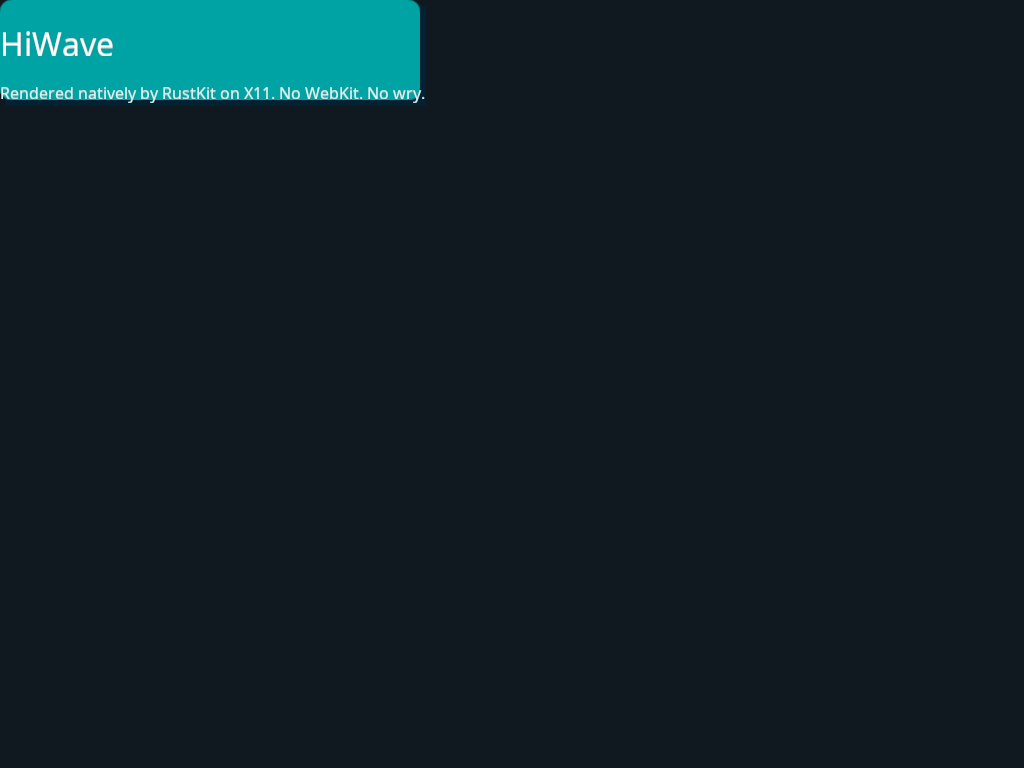
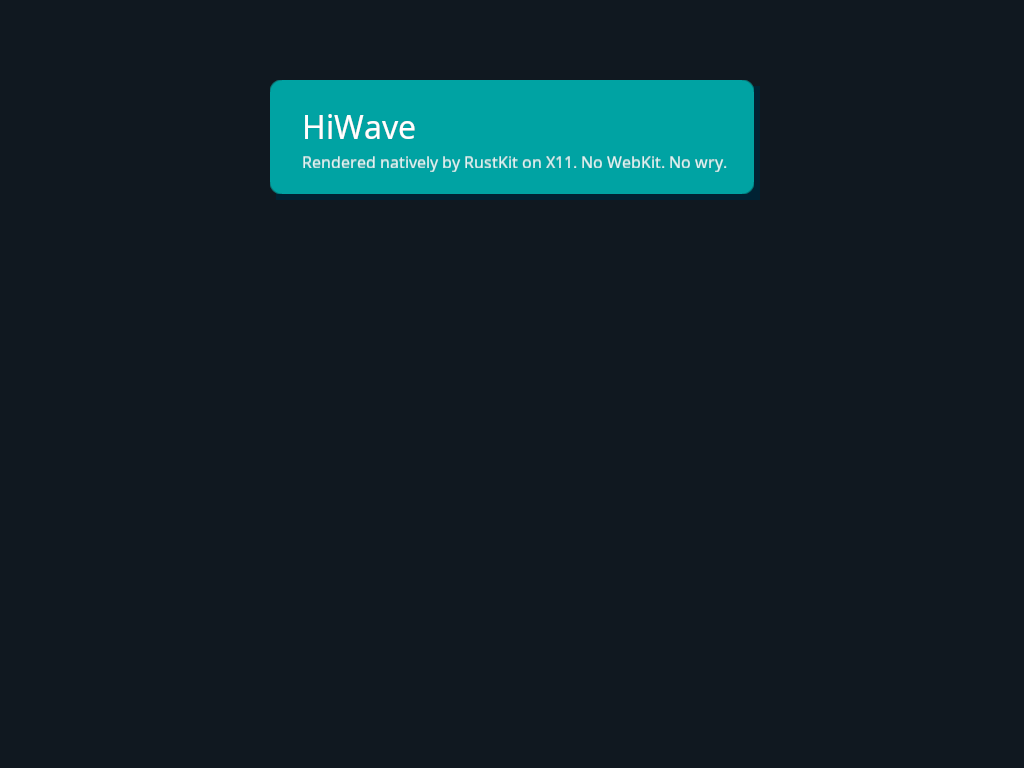
fix(css,layout): `margin: 0 auto` centers — two independent defects, one symptom
The card sat pinned to the top-left. TWO bugs had to be fixed to move it, and
each was invisible alone — fixing either changed nothing on screen, which is
exactly why this survived.

1. PARSER: the `margin`/`padding` shorthand called parse_length() on the WHOLE
   value string, so every multi-value form failed and was DROPPED ENTIRELY.
   `margin: 80px auto` set nothing — not the auto, not even the 80px. Measured:
     margin: 80px auto  -> left=Zero right=Zero top=Zero
     margin-left: auto  -> left=Auto            (longhand always worked)
   Now parse_box_shorthand() expands 1/2/3/4 values per CSS box rules, and
   drops the whole declaration if ANY token fails — half-applying a shorthand
   is worse than ignoring it.

2. LAYOUT: css2 10.3.3 was unimplemented. With a definite width, auto margins
   absorb the leftover: both auto splits it (centering), one auto takes it all.
   length_to_px maps Auto to 0 — correct for the width computation, but it
   erases the auto-ness, so the rule re-checks the style.

Symptom order matters for the next person: I fixed layout first and the
screenshot did not move, because the parser had already thrown the declaration
away. A layout rule that cannot receive its input is untestable through the
page; only the parser probe distinguished them.

RECEIPT: screenshot regenerated — card centered, padded, correct colors, real
type. Numerically verified in the previous commit and unchanged here.
[…]

Changed region(s): [[0.0, 0.0, 0.75, 0.25]]

diff --git a/crates/rustkit-engine/src/lib.rs b/crates/rustkit-engine/src/lib.rs
@@ -3395,26 +3395,46 @@ fn apply_inline_style_decls(style: &mut ComputedStyle, style_attr: &str) {
                     }
                 }
                 "margin" => {
-                    if let Some(length) = parse_length(value) {
-                        // Length is not Copy: clone for all but the last
-                        // assignment, which still moves (= Windows #42).
-                        style.margin_top = length.clone();
-                        style.margin_right = length.clone();
-                        style.margin_bottom = length.clone();
-                        style.margin_left = length;
+                    if let Some((t, r, b, l)) = parse_box_shorthand(value) {
+                        style.margin_top = t;
+                        style.margin_right = r;
+                        style.margin_bottom = b;
+                        style.margin_left = l;
                     }
                 }
                 "padding" => {
-                    if let Some(length) = parse_length(value) {
-                        style.padding_top = length.clone();
-                        style.padding_right = length.clone();
-                        style.padding_bottom = length.clone();
-                        style.padding_left = length;
+                    if let Some((t, r, b, l)) = parse_box_shorthand(value) {
+                        style.padding_top = t;
+                        style.padding_right = r;
+                        style.padding_bottom = b;
+                        style.padding_left = l;
                     }
                 }
                 _ => {}
             }
         }
+    }
+}
+
+/// Expand a 1–4 value margin/padding shorthand per CSS box rules.
+///
+/// Returns (top, right, bottom, left), or None if any token fails to parse —
+/// an invalid declaration is DROPPED whole, never half-applied.
+///
+/// The old `"margin"` arm called `parse_length(value)` on the ENTIRE value
+/// string, so any multi-value form ("80px auto", "0 auto", "1px 2px 3px 4px")
+/// failed the parse and was silently dropped — `margin: 80px auto` set
+/// NOTHING, not even the 80px. Which is why `margin: 0 auto` centering could
+/// never work regardless of what layout did with Auto.
+fn parse_box_shorthand(value: &str) -> Option<(rustkit_css::Length, rustkit_css::Length, rustkit_css::Length, rustkit_css::Length)> {
+    let parts: Vec<&str> = value.split_whitespace().collect();
+    let lens: Vec<rustkit_css::Length> = parts.iter().map(|p| parse_length(p)).collect::<Option<_>>()?;
+    match lens.as_slice() {
+        [a] => Some((a.clone(), a.clone(), a.clone(), a.clone())),
+        [v, h] => Some((v.clone(), h.clone(), v.clone(), h.clone())),
+        [t, h, b] => Some((t.clone(), h.clone(), b.clone(), h.clone())),
+        [t, r, b, l] => Some((t.clone(), r.clone(), b.clone(), l.clone())),
+        _ => None,
     }
 }
 
@@ -6526,5 +6546,83 @@ mod canvas_background_propagation {
         assert!(cmd.contains("r: 255, g: 255, b: 255"), "canvas must be UA white, got {cmd}");
         assert!(cmd.contains("width: 1024") && cmd.contains("height: 768"),
                 "UA white must fill the viewport too, got {cmd}");
+    }
+}
+
+#[cfg(test)]
+mod box_shorthand_and_auto_margins {
+    //! `margin: 0 auto` centering needs BOTH halves: the shorthand must parse
+    //! multi-value forms, and layout must give leftover space to auto margins.
+    //! Each was broken independently, so fixing either alone changed nothing
+    //! visible — which is why the card stayed pinned left after the layout fix.
+    use super::*;
+    use rustkit_css::Length;
+
+    fn applied(decls: &str) -> ComputedStyle {
+        let mut s = ComputedStyle::default();
+        apply_inline_style_decls(&mut s, decls);
+        s
+    }
+
+    #[test]
+    fn two_value_shorthand_no_longer_drops_everything() {
+        // Before: parse_length() was called on the WHOLE value string, so
+        // "80px auto" failed to parse and NOTHING was set — not even the 80px.
+        let s = applied("margin: 80px auto");
+        assert_eq!(s.margin_top, Length::Px(80.0));
+        assert_eq!(s.margin_bottom, Length::Px(80.0));
+        assert_eq!(s.margin_left, Length::Auto);
+        assert_eq!(s.margin_right, Length::Auto);
+    }
+
+    #[test]
+    fn one_three_and_four_value_forms() {
+        let one = applied("padding: 10px");
+        assert_eq!((one.padding_top, one.padding_left), (Length::Px(10.0), Length::Px(10.0)));
+
+        let three = applied("margin: 1px 2px 3px");
+        assert_eq!(three.margin_top, Length::Px(1.0));
+        assert_eq!(three.margin_right, Length::Px(2.0));
+        assert_eq!(three.margin_bottom, Length::Px(3.0));
+        assert_eq!(three.margin_left, Length::Px(2.0), "left mirrors right in the 3-value form");
+
+        let four = applied("margin: 1px 2px 3px 4px");
+        assert_eq!(four.margin_left, Length::Px(4.0));
+    }
+
+    #[test]
+    fn an_invalid_token_drops_the_whole_declaration() {
+        // Half-applying a shorthand is worse than ignoring it.
+        let mut s = ComputedStyle::default();
+        s.margin_top = Length::Px(5.0);
+        apply_inline_style_decls(&mut s, "margin: 10px nonsense");
+        assert_eq!(s.margin_top, Length::Px(5.0), "invalid shorthand must not partially apply");
+    }
+
+    #[test]
+    fn auto_margins_center_a_definite_width_block() {
+        let html = r#"<html><head><style>body{margin:0}
+            #c{width:400px;height:50px;margin:0 auto}</style></head>
+            <body><div id=c>x</div></body></html>"#;
+        let (event_tx, event_rx) = tokio::sync::mpsc::unbounded_channel();
+        let e = Engine { config: EngineConfig::default(), views: HashMap::new(), viewhost: ViewHost::new(),
+            compositor: test_compositor(), renderer: None,
+            loader: Arc::new(ResourceLoader::new(LoaderConfig::default()).expect("loader")),
+            image_manager: Arc::new(ImageManager::new()), event_tx, event_rx: Some(event_rx) };
+        let doc = Document::parse_html(html).expect("parse");
+        let mut l = e.build_layout_from_document(&doc);
+        l.layout(&rustkit_layout::Dimensions {
+            content: rustkit_layout::Rect::new(0.0, 0.0, 1000.0, 600.0),
+            ..Default::default()
+        });
+        fn find(b: &LayoutBox, out: &mut Vec<(f32, f32)>) {
+            if b.dimensions.content.width == 400.0 { out.push((b.dimensions.content.x, b.dimensions.content.width)); }
+            for c in &b.children { find(c, out); }
+        }
+        let mut hits = Vec::new();
+        find(&l, &mut hits);
+        let (x, w) = *hits.first().expect("the 400px block");
+        assert_eq!(w, 400.0);
+        assert_eq!(x, 300.0, "(1000-400)/2 = 300; a left-pinned box reports 0");
     }
 }

diff --git a/crates/rustkit-layout/src/lib.rs b/crates/rustkit-layout/src/lib.rs
@@ -868,6 +868,31 @@ impl LayoutBox {
             _ => self.length_to_px(&style.width, containing_block.content.width),
         };
 
+        // css2 §10.3.3: with a definite width, `margin: auto` absorbs the
+        // leftover space — both sides auto splits it (this is `margin: 0 auto`
+        // centering), one side auto takes all of it. `length_to_px` maps Auto
+        // to 0, which is correct for the WIDTH computation above but loses the
+        // distinction here, so the auto-ness is re-checked on the style.
+        let (margin_left, margin_right) = if !matches!(style.width, Length::Auto) {
+            let leftover = (containing_block.content.width
+                - content_width
+                - border_left - border_right
+                - padding_left - padding_right
+                - margin_left - margin_right)
+                .max(0.0);
+            match (
+                matches!(style.margin_left, Length::Auto),
+                matches!(style.margin_right, Length::Auto),
+            ) {
+                (true, true) => (leftover / 2.0, leftover / 2.0),
+                (true, false) => (leftover, margin_right),
+                (false, true) => (margin_left, leftover),
+                (false, false) => (margin_left, margin_right),
+            }
+        } else {
+            (margin_left, margin_right)
+        };
+
         self.dimensions.content.width = content_width;
         self.dimensions.margin.left = margin_left;
         self.dimensions.margin.right = margin_right;
